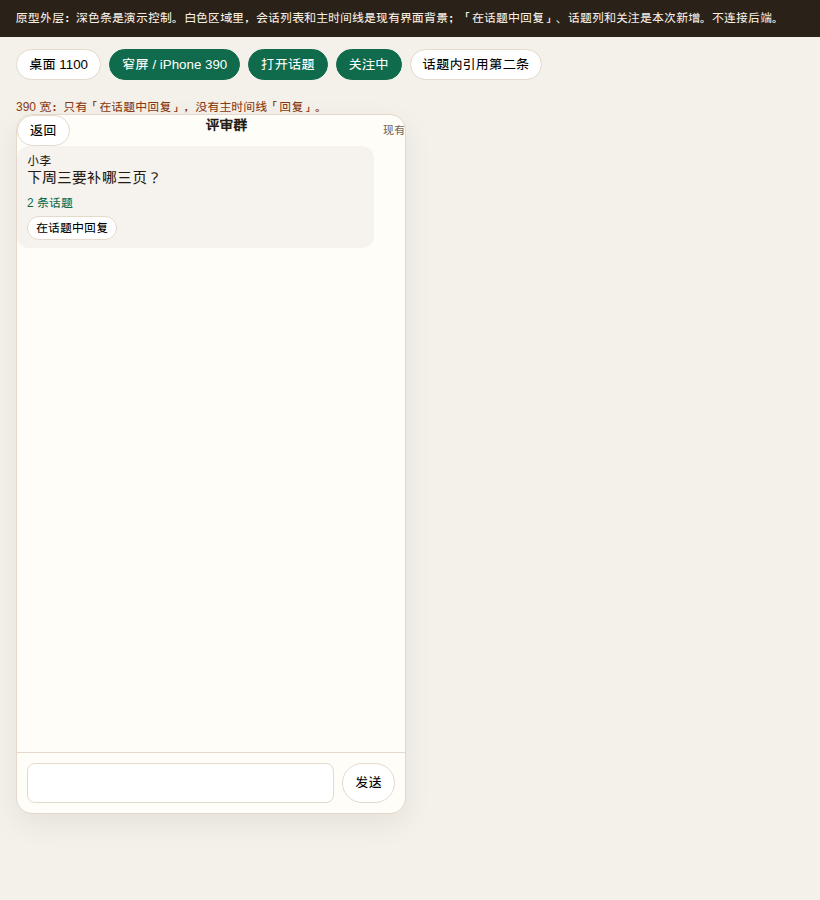
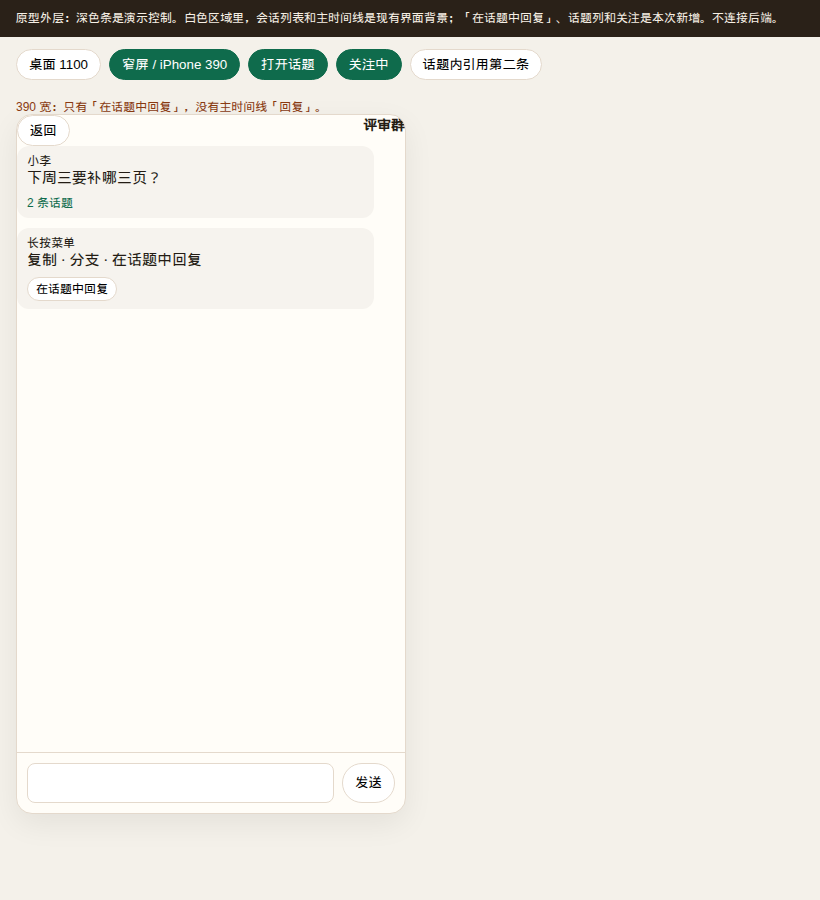
docs(feat-780): close design review findings

Changed region(s): [[0.0305, 0.2489, 0.2439, 0.3422], [0.4268, 0.1244, 0.4878, 0.1556], [0.2439, 0.1244, 0.3049, 0.1556]]

diff --git a/docs/changes/feat-780-chat-topics/prototype.html b/docs/changes/feat-780-chat-topics/prototype.html
@@ -70,10 +70,11 @@
       </section>
     </section>
     <section class="phone hidden" id="phone">
-      <div class="top"><button id="phone-back" type="button">返回</button><h2 id="phone-title">评审群</h2><span class="tag" id="phone-tag">现有</span></div>
+      <div class="top"><button id="phone-back" type="button">返回</button><h2 id="phone-title">评审群</h2><button id="phone-follow" type="button" class="hidden">关注中</button></div>
       <div class="stream" id="phone-main">
-        <article class="msg"><strong>小李</strong>下周三要补哪三页？<div class="entry">2 条话题</div>
-          <div class="actions"><button id="phone-open">在话题中回复</button></div></article>
+        <article class="msg"><strong>小李</strong>下周三要补哪三页？<div class="entry">2 条话题</div></article>
+        <div class="msg" id="phone-menu"><strong>长按菜单</strong>复制 · 分支 · 在话题中回复
+          <div class="actions"><button id="phone-open" type="button">在话题中回复</button></div></div>
       </div>
       <div class="stream hidden" id="phone-thread">
         <article class="msg"><strong>小李</strong>先看第二页。</article>
@@ -104,7 +105,8 @@
       document.querySelector('#phone-main').classList.toggle('hidden', phoneInThread);
       document.querySelector('#phone-thread').classList.toggle('hidden', !phoneInThread);
       document.querySelector('#phone-title').textContent = phoneInThread ? '话题' : '评审群';
-      document.querySelector('#phone-tag').textContent = phoneInThread ? '本次新增' : '现有';
+      document.querySelector('#phone-follow').classList.toggle('hidden', !phoneInThread);
+      document.querySelector('#phone-follow').textContent = following ? '关注中' : '已取消关注';
       hint.textContent = desktopMode
         ? (threadOpen ? '桌面：时间线与话题同时可见。右侧发送不会出现在中间。' : '桌面：话题列已关，主时间线只留「2 条话题」。')
         : (phoneInThread ? '390 宽：话题占满这一层，返回才回到主时间线。' : '390 宽：只有「在话题中回复」，没有主时间线「回复」。');
@@ -133,6 +135,7 @@
     };
     document.querySelector('#phone-open').onclick = () => { phoneInThread = true; paint(); };
     document.querySelector('#phone-back').onclick = () => { phoneInThread = false; paint(); };
+    document.querySelector('#phone-follow').onclick = () => { following = !following; paint(); };
     document.querySelector('#phone-send').onclick = () => {
       const input = document.querySelector('#phone-input');
       if (!phoneInThread || !input.value.trim()) return;

diff --git a/docs/changes/feat-780-chat-topics/design-review.md b/docs/changes/feat-780-chat-topics/design-review.md
@@ -1,0 +1,70 @@
+# feat-780 · 独立设计审查
+
+## Round 1
+
+- reviewer: independent Gate 2 reviewer (subagent)，未参与本设计编写
+- target: `754a8935a7a3ee7509c579efe8fbf2d61c9846b2` 上的 spec、design、六份 delta、`prototype.html`、`prototype-review/` 五张截图、M1 骨架。对照同一 commit 的 develop 代码。无 `deployment-prompt.md`。
+- review_mode: full
+- mode_reason: 首次 Gate 2，无既有 `design-review.md`。范围含话题存储、中继裁剪、未读、模型可见回复地址，以及 Web/iPhone 原型。
+- started_at: 2026-11-20T15:37:42+00:00
+- completed_at: 2026-11-20T15:46:43+00:00
+- duration: 9m1s
+- Verdict: **Issues Found · 1 CRITICAL / 4 WARNING**
+
+### Coverage 与证据
+
+- **现状断言。** `messages.reply_to_json` 由 `db.ts` 在执行 `schema.sql` 之后用可重复的 `ALTER TABLE` 补列。`messaging.ts` 的 `replyReference` 只拷贝本聊天一条已存在的 user/agent 消息；`deliveryFacts` 在私聊、@、引用到该 Agent 时把 `addressed_to_agent` 设为真；`enqueueRelays` 把成员 Agent 写入 `relay_tasks`。`message-records.ts` 的 `insert` 对除发送者外的参与者 `unread_count+1`，并更新 `last_message_preview`。已读接口按 `messages.rowid` 重算 `unread_count`。`classifyChatDelivery` 先处理 `owner_only && !ownerDirect → skip`，再把私聊、@、引用判为 `high`，其余为 `background`（`CHAT_BACKGROUND_DELAY_MS` = 10 分钟）。`single-thread.ts` 只把 `background` 放进 `bufferGroup`；高优走 `takeGroup` 和该聊天已有的 `chatBinding`。自动正文的 `turn_start` 只带 `conversation_id`。`inbox.acceptRelay` 的 target 是 `conversation_id`。Global 只有主 session。`send_message` 已有 `target` 与可选 `reply_to_message_id`，外部通道和内部子执行不能带引用。`ConversationView` 的消息菜单仍是复制和分支，不渲染 `reply_to`。这些与 design 的现状段一致。
+- **另一条入箱并不经过 `enqueueRelays`。** Agent 完成的群消息由 `gateway.ts` 的 `groupReply` 转给其他全部 Agent，`chat-streaming.ts` 在 `message_completed` 时调用它。PA 观察由 `schema.sql` 的 `personal_observation_event` 在 `conversation_events` 插入后写入 `pa_source_events`，再由 `global-agent.ts` 的 `recoverPersonalObservations` 摄入。design 把未关注话题的裁剪写成「`enqueueRelays` 之前的同一刀」，见 R1-C1。
+- **已收口且与代码相符的决定。** 话题回复与根消息同在 `messages`，用可空 `thread_root_id`，引用仍只用 `reply_to_json`。不按话题拆 session，也不按话题拆 Inbox target；`/new` 仍重开该聊天现有 session，Global 仍是一条主 session。仅限本人的群话题即使被中继，也会在 `classifyChatDelivery` 因缺少 `ownerDirect` 而 `skip`，不会进入十分钟批；创建者私聊仍是 high。私聊话题不按 `thread_follows` 过滤，未读和提示继续走现有私聊水位。人发的、会走 `enqueueRelays` 的未关注群话题，按设计在分类前丢掉，确实到不了 `bufferGroup` 和参与者 Inbox。多步任务由模型选择 `in_thread_of`，宿主在本轮已经写入该话题后不再向主时间线双写；一句且本轮没写过话题时留在主时间线。这个选择已写明，不另做句数分类器。无历史重写，不需要 `deployment-prompt.md`。
+- **需求覆盖。** 一层话题、与 feat-730 引用分开、群关注/私聊不过滤、团队协作按关注叫醒、仅限本人、搜索打开话题、影子会话不建话题、分支仍是单聊，design 都有对应结果。iPhone 不补主时间线「回复」与当前菜单一致。feat-779 未进入本树。缺的是阅读位置、手机关注控件，以及写入副作用，见 R1-W1、R1-W3、R1-W4。
+- **delta。** 三份 MODIFIED 都保留了 canonical 原有 Scenario，没有删条。时间线条目改为排除话题回复并让根消息带回复数；已读场景加上「打开主时间线不清尚未打开的群话题」；回执分母收成当时的关注者。后一条在 design 正文里没有机制，并入 R1-W1。ADDED 与 spec 的落点一致，但「正在看的人直接看到」没有保住向上翻阅时不拉动位置，见 R1-W3。`agent-capabilities.md` 不单列 delta 是说得通的：工具集合不变，`in_thread_of` 的可观察行为写在路由和 Global delta。
+- **模型可见信息（设计审查，未跑模型）。** 话题轮次的样例有根 id、根摘录、更早回复和当前消息，并要求用 `in_thread_of` 指向该根、不要再贴主时间线。引用沿用 feat-730，并标明是引用而不是新指令。默认只带根和最近 20 条，更早的用带 `thread_root_message_id` 的 `conversations` 读取；不带该参数时读取和搜索仍是主时间线。Before/After 能区分一句、多步不双写，以及未中继时背景里没有这些消息。这只覆盖已经中继的那一轮。观察触发器和 `groupReply` 仍会把未关注话题送进十分钟输入，所以 After 对 PA 和其他 Agent 不成立，见 R1-C1。拼接方式见 R1-R1。本轮没有真实 provider 请求，不能把样例写成模型已经会调用。
+- **前端。** 看过 `desktop-thread.png`、`desktop-closed.png`、`desktop-unfollowed.png`、`phone-timeline.png`、`phone-thread.png`。桌面同时留下主时间线和话题列，话题正文不进时间线，入口是条数加一行摘录；收起后只留入口；关注状态在话题顶栏，有「关注中 / 已取消关注」。390 宽推入一层，返回回到时间线，气泡上没有「回复」。这些 must-match 能对应 M1 的桌面、窄屏、iPhone 和话题内引用。手机层没有关注控件，气泡下的常驻按钮又和「加入菜单」不一致，见 R1-W4、R1-W5。原型未接后端；滚动、失败草稿和真实未读按 design 留在 M1，这次不把它们写成已通过。
+- **架构。** 把话题放进现有 `messages`，比另建一套消息合适：附件、幂等、引用、搜索和实时事件继续在同一处。会话边界继续用 `chatBinding` 和 Global 主 session，Inbox target 继续是聊天，这是对的，不该按话题再开记忆。参与者中继的裁剪点放在分类之前也对，但不是唯一入箱点。fork 的复制查询在 `conversation-actions.ts`，不在 M1 文件表里，见 R1-W2。
+- **里程碑。** 只有 M1，有 `[reviewer]` 和 `[worker]`，目录仅有 `.gitkeep`。reviewer 覆盖人和 Agent 的主要旅程，worker 覆盖根校验、游标、未读、中继裁剪、high、不入 buffer、`in_thread_of` 和自动正文不双写。原型 must-match 的桌面并排、窄屏、iPhone、关注和话题内引用都写进了 reviewer 或「符合 must-match 层级」加上 worker 的 1100/390/iPhone 对照。缺观察事件、`groupReply`、回执和 fork 复制。
+- **证据边界。** 本轮只审文档和当前代码，没有启动服务、模拟器或模型。
+
+### 历史问题闭环
+
+首轮，无既有 issue。
+
+### Issues
+
+1. **R1-C1 · 未关注的群话题仍会进入十分钟批。** [design.md 关键决策](design.md#关键决策) 写 IM 在 `enqueueRelays` 之前丢掉未关注 Agent，使它们进不了 `group_background`，也进不了 Inbox 的十分钟批，并称 PA 观察使用同一刀。develop 上还有两条不经过 `enqueueRelays` 的入箱。
+
+   `schema.sql` 的 `personal_observation_event` 在 `message.created` 和 `message.completed` 之后，给主人所在聊天的 PA 插入 `pa_source_events`。`global-agent.ts` 的 `recoverPersonalObservations` 再 `ingest`。未 @、未引用时，`personal-agent.ts` 的 `sourceFacts` 不会把 `addressed_to_agent` 设为真，`classifyChatDelivery` 得到 `background`，于是进入十分钟观察批。已关注但没有被点名的话题，这条路径也不会变成 high。这与 [personal-agent delta](specs/gateway/personal-agent.md) 的「不进入观察 Inbox，也不触发十分钟合并通知」以及「已关注则高优、不并进十分钟批」相反。有读权限时按话题根读取可以保留。
+
+   `gateway.ts` 的 `groupReply` 把 Agent 已完成的群消息转给其他全部 Agent，走 `relayMessage`。`chat-streaming.ts` 在 `message_completed` 时调用它，`publishAgent` 也会调用。`deliveryFacts` 不会因话题关注把 `addressed_to_agent` 设为真。未关注的团队协作 Agent 因此收到 `background`，进入 `bufferGroup` 或 Inbox 的十分钟批。人发的话题回复才走 `enqueueRelays`。Agent 在话题里说话，或自动正文写进话题，都会绕过设计里的那一刀。spec 要求这些回复不混进大约十分钟才带上的普通群消息。
+
+   仅限本人仍会在分类时因缺少 `ownerDirect` 而 `skip`，私聊不进 `groupReply`。这两条不能代替上面的裁剪。M1 列了 `schema.sql` 和 `gateway.ts`，没有 `personal-agent.ts`，正文也没有点名触发器和 `groupReply`。需要写明：未关注话题不写观察事件；`groupReply` 只发给仍关注的 Agent，并且这些中继按 high 进入该聊天现有 session。worker 要用一条 Agent 话题回复和一条 PA 观察断言十分钟批里没有它。
+
+2. **R1-W1 · 群话题的未读、列表预览和回执没有按现有写入副作用收口。** `message-records.ts` 的 `insert` 给除发送者外的所有参与者 `unread_count+1`，并把正文写成 `conversations.last_message_preview`。`messaging.ts` 打开聊天时执行 `unread_count = COUNT(rowid > 水位)`，并把 `rowid <= 水位` 的回执标为已读。`discard` 也按这个水位重算。
+
+   design 要求群话题只给 `following=1` 增加 `thread_follows.unread_count`，并加进列表总未读；打开主时间线的 SQL 不再把话题回复算进已读。按字面只改 COUNT，重算会清掉刚加进同一列的话题未读。水位之前插入的话题回复仍会被标成已读。未关注的人会在会话列表看到话题正文，这和「不提示、回复不进主列表」冲突。[conversations delta](specs/im/conversations-messages.md) 已把群话题回执的分母收成当时的关注者，design 和 M1 都没有回执。
+
+   需要写明列表未读等于主时间线水位计数加上该用户各话题的 `thread_follows.unread_count`，重算和丢弃都加回后者；话题回复不改写全员预览；`message_receipts` 只包含当时该计未读的人。私聊继续用现有水位。
+
+3. **R1-W2 · 分支复制会带走话题，而且不在 M1 文件里。** `conversation-actions.ts` 的 fork 执行 `SELECT * FROM messages WHERE conversation_id=? ORDER BY rowid`，再截到锚点。夹在中间的话题回复会进新单聊。design 写了只复制主时间线，M1 范围没有这个文件。按该范围实施，spec「新单聊只带主时间线历史，原话题留在原聊天」做不到。把这条查询纳入范围，worker 断言新单聊没有 `thread_root_id`。
+
+4. **R1-W3 · 向上翻阅时，新回复不拉动阅读位置没有进入设计或验收。** spec「阅读和接上」要求正在看更早回复时，新回复出现但不把阅读位置拉走。design 只写正在看该话题时追加气泡。[conversations delta](specs/im/conversations-messages.md) 写成「正在看的人直接看到」，没有留下这一条，实现时可以做成滚到最新。M1 reviewer 也没有这条。客户端数据流、Web/iOS delta 和 reviewer 退出标准需要写明：人已经离开底部时保持当前位置，新回复仍加在末尾。
+
+5. **R1-W4 · 窄屏话题层没有关注状态，iPhone 动作放在菜单还是气泡下也没定。** spec 要求 iPhone 能关注和取消。design 写话题顶栏有关注状态，must-match 单独要求「关注 / 已取消」。`phone-thread.png` 的顶栏只有「返回」和「话题」；两种状态只在桌面列和页面外的演示按钮上。按手机画面做，窄屏看不出也不会切换关注。
+
+   同一处还有操作层级冲突。design 相关历史写把「在话题中回复」加进 `ConversationView` 菜单，与复制、分支以及 779 落地后的引用取并集。`phone-timeline.png` 画的是气泡下的常驻按钮。feat-779 的设计审查 Round 2 已是 Approved，其 M2 使用长按菜单，并且不在每条消息下常驻一行动作；本树的 `ConversationView` 仍只有复制和分支，779 没有实现。design 写「该设计尚未收口」和这份审查结论不符。要选定长按菜单或气泡下按钮，让 must-match 画面与选定结果一致，并写明与 779 并集时不删除对方的项、也不变成两套入口。390 宽的话题层还要有与桌面相同的关注状态，主时间线的每条消息上仍然没有这个开关。
+
+### Recommendations
+
+1. **R1-R1 ·** 话题块样例已经包含 Current message，正文又写「在现有消息前增加」。请规定它替换本条的默认 `messageContent`，还是只附根消息和更早回复，避免同一条回复出现两次。
+2. **R1-R2 ·** `db.ts` 先执行整份 `schema.sql`，再 `ALTER` 补列。`(thread_root_id, created_at, id)` 若写在补列之前的 schema 里，旧库启动会因列不存在而失败。索引应在列已经存在之后创建。这仍然不需要 `deployment-prompt.md`。
+3. **R1-R3 ·** 影子会话不能建话题已经写在约束和 reviewer 标准里。建议与根校验放在同一条：外部会话拒绝非空 `thread_root_id` 和 `in_thread_of`，避免只藏按钮。
+
+### Author Resolutions
+
+- R1-C1 accepted。关键决策写明 `enqueueRelays` 与 `groupReply` 使用同一谓词，未命中不调用 `relayMessage`；`personal_observation_event` 不为未关注且未被点名的话题回复写 `pa_source_events`，已写入的观察事件在 `recoverPersonalObservations` 标成 high。路由与 PA delta 的场景改成覆盖人和 Agent 的发送。M1 的 worker 标准包含观察事件和 `groupReply`。
+- R1-W1 accepted。写入节规定列表未读等于主时间线水位计数加上 `thread_follows.unread_count`，重算和丢弃都加回后者；话题回复不改 `last_message_preview`；`message_receipts` 与未读对象相同。回执 delta 仍保留其余 Scenario。
+- R1-W2 accepted。`conversation-actions.ts` 进入 M1，fork 只复制 `thread_root_id IS NULL`。
+- R1-W3 accepted。实时事件、Web/iOS delta 和 reviewer 标准写明离开底部时不拉动阅读位置。
+- R1-W4 accepted。窄屏和 iPhone 使用长按菜单，不在气泡下常驻按钮；话题顶栏在两端都有关注。原型 `phone-timeline.png` 与 `phone-thread.png` 已按此重拍。feat-779 Round 2 Approved 已写进相关历史，菜单取并集。
+- R1-R1 accepted。话题块替换该条的默认 `messageContent`，当前消息只出现一次。
+- R1-R2 accepted。索引在 `thread_root_id` 列存在之后创建，仍不需要 `deployment-prompt.md`。
+- R1-R3 accepted。外部会话在根校验处拒绝非空 `thread_root_id` 与 `in_thread_of`。

diff --git a/docs/changes/feat-780-chat-topics/specs/im/ios-client.md b/docs/changes/feat-780-chat-topics/specs/im/ios-client.md
@@ -5,9 +5,10 @@
 ### Requirement: iPhone 能阅读和回复话题
 
 #### Scenario: 从消息进入话题
-- **WHEN** 用户在原生聊天里对一条合格消息选择在话题中回复，或打开已有话题
-- **THEN** 话题以单独一层展示根消息和按时间排列的回复，返回回到主时间线
-- **AND** 话题回复不出现在主时间线
+- **WHEN** 用户长按一条合格消息并选择在话题中回复，或打开已有话题
+- **THEN** 话题以单独一层展示根消息和按时间排列的回复，顶栏能关注或取消，返回回到主时间线
+- **AND** 话题回复不出现在主时间线；已经向上翻阅时，新回复不拉动阅读位置
+- **AND** 动作在长按菜单里，与复制、分支以及已有的引用并列，不在气泡下常驻
 - **AND** 本需求不新增主时间线上的「回复」动作
 
 #### Scenario: 关注与未读和 Web 一致

diff --git a/docs/changes/feat-780-chat-topics/specs/im/web-chat-ux.md b/docs/changes/feat-780-chat-topics/specs/im/web-chat-ux.md
@@ -13,7 +13,13 @@
 #### Scenario: 窄屏推入话题
 - **WHEN** 用户在约 390 像素宽的浏览器里打开话题并返回
 - **THEN** 话题占据当前聊天层，返回后回到原来的主时间线位置
-- **AND** 两个动作仍能分清：现有「回复」留在主时间线，「在话题中回复」进入话题
+- **AND** 两个动作都在现有消息菜单里，不在每条气泡下常驻：「回复」留在主时间线，「在话题中回复」进入话题
+- **AND** 话题顶栏能看出并切换是否关注
+
+#### Scenario: 向上翻阅时位置不动
+- **GIVEN** 用户在桌面或窄屏把话题翻到更早的回复
+- **WHEN** 新的话题回复到达
+- **THEN** 它出现在话题末尾，当前阅读位置不变
 
 #### Scenario: 话题内引用和失败
 - **WHEN** 用户在话题里引用其中一条并发送，或发送失败

diff --git a/docs/changes/feat-780-chat-topics/specs/im/conversations-messages.md b/docs/changes/feat-780-chat-topics/specs/im/conversations-messages.md
@@ -9,7 +9,7 @@
 #### Scenario: 话题回复不进入主时间线
 - **WHEN** 有发送资格的成员向一条合格消息发送话题回复
 - **THEN** 主时间线的历史、游标和实时插入都不出现这条回复
-- **AND** 打开该根能按时间读到它；实时到达时，正在看该话题的人直接看到，正在看主时间线的人只看到根上的入口更新
+- **AND** 打开该根能按时间读到它。正在看该话题且已经离开底部时，新回复加在末尾，阅读位置不动。正在看主时间线的人只看到根上的入口更新
 
 #### Scenario: 非法的话题根被拒绝
 - **WHEN** 请求把话题根设成系统行、未完成消息、别的聊天或另一条话题回复

diff --git a/docs/changes/feat-780-chat-topics/specs/gateway/personal-agent.md b/docs/changes/feat-780-chat-topics/specs/gateway/personal-agent.md
@@ -7,7 +7,7 @@
 #### Scenario: 观察中的群话题
 - **GIVEN** PA 获准观察一个群，但没有关注其中某条话题
 - **WHEN** 该话题出现没有 @ 它、也没有引用它的回复
-- **THEN** 这条回复不进入观察 Inbox，也不触发十分钟合并通知
+- **THEN** 不写入观察事件，这条回复不进入观察 Inbox，也不触发十分钟合并通知
 - **AND** PA 此后有权读取该聊天时，仍可按话题根读到这些消息
 
 #### Scenario: 被点名的话题及时可读

diff --git a/docs/changes/feat-780-chat-topics/specs/gateway/routing-delivery.md b/docs/changes/feat-780-chat-topics/specs/gateway/routing-delivery.md
@@ -8,7 +8,7 @@
 
 #### Scenario: 未关注的群话题
 - **GIVEN** 团队协作的 Agent 没有关注这条群话题
-- **WHEN** 话题里出现没有 @ 它、也没有引用它的回复
+- **WHEN** 话题里出现没有 @ 它、也没有引用它的回复，无论发送者是人还是 Agent
 - **THEN** 不创建运行，群背景和十分钟积压里也没有这条消息
 
 #### Scenario: 已关注或被点名
